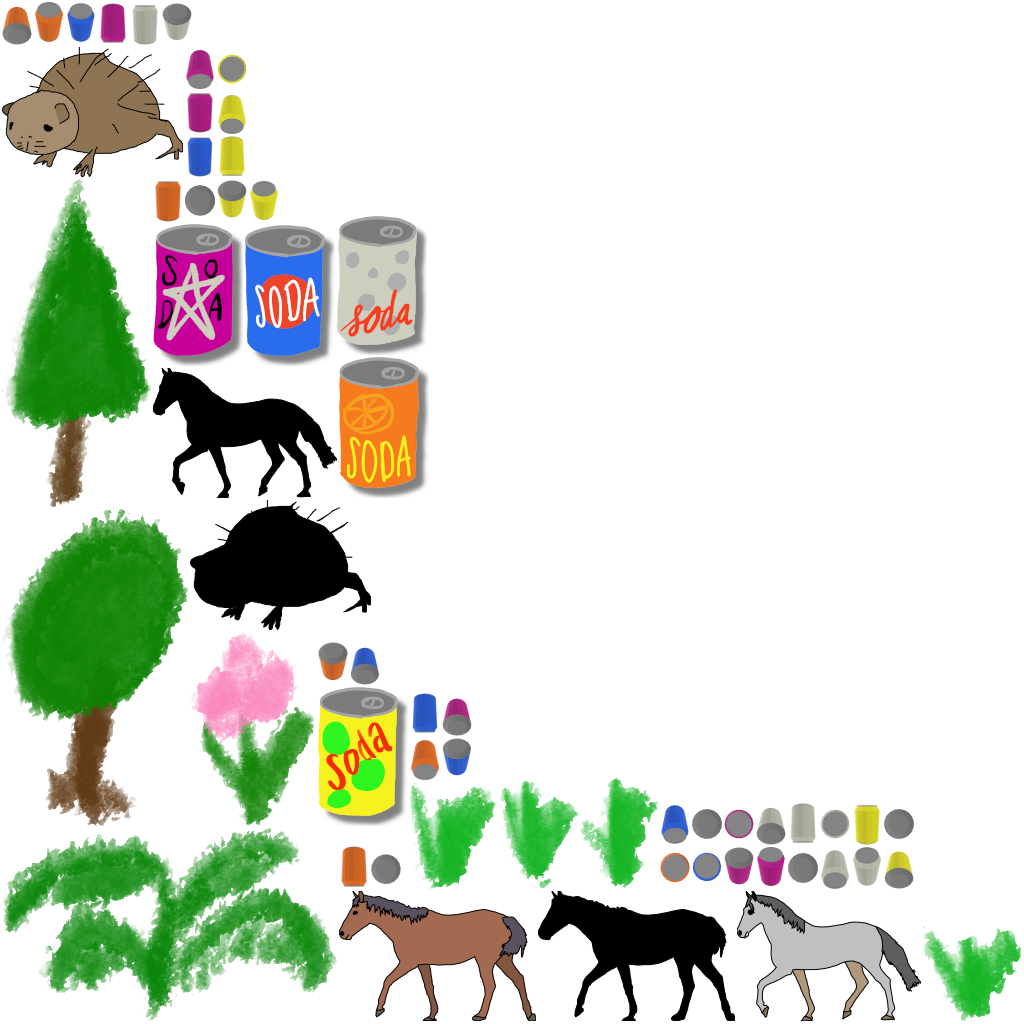
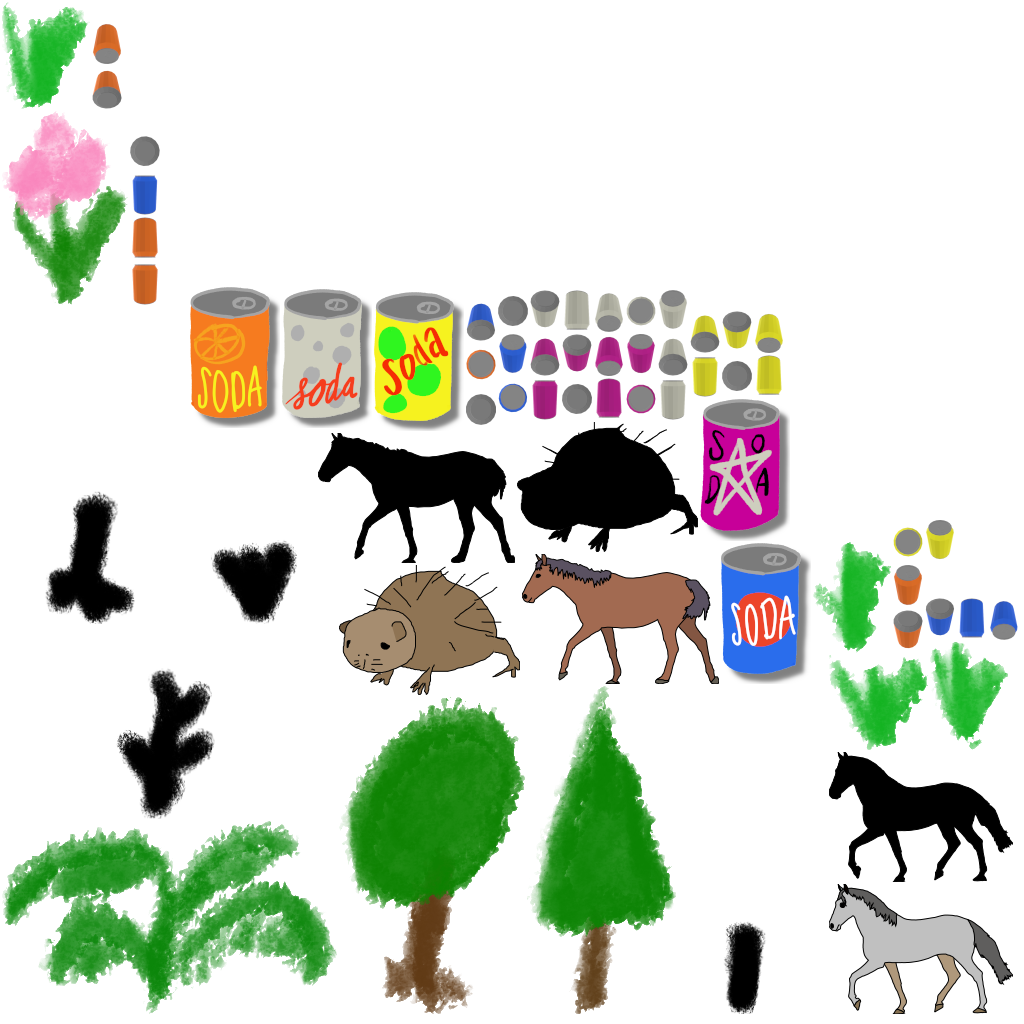
Plants not have hit-state Sprites that look charred

diff --git a/core/src/nz/co/canadia/coolsodacan/Plant.java b/core/src/nz/co/canadia/coolsodacan/Plant.java
@@ -7,13 +7,14 @@ import com.badlogic.gdx.graphics.g2d.SpriteBatch;
 import com.badlogic.gdx.graphics.g2d.TextureAtlas;
 import com.badlogic.gdx.math.MathUtils;
 import com.badlogic.gdx.math.Rectangle;
-import com.badlogic.gdx.utils.Array;
 
 import java.util.Comparator;
 
 @SuppressWarnings("NullableProblems")
 public class Plant implements GameObject, Hittable, Comparable<GameObject>, Comparator<GameObject> {
-    private Sprite sprite;
+    private Sprite normalSprite;
+    private Sprite hitSprite;
+    private Sprite currentSprite;
     private final ParticleEffect explosion;
     private Constants.HittableState hitState;
     private int hitCount;
@@ -27,56 +28,63 @@ public class Plant implements GameObject, Hittable, Comparable<GameObject>, Comp
                         MathUtils.random(Constants.PlantName.values().length - 1)];
         switch(plantName) {
             case FERN01:
-                sprite = atlas.createSprite(Constants.FERN01_TEXTURE);
+                normalSprite = atlas.createSprite(Constants.FERN01_TEXTURE);
+                hitSprite = atlas.createSprite(Constants.FERN01_HIT_TEXTURE);
                 break;
             case FLOWER01:
-                sprite = atlas.createSprite(Constants.FLOWER01_TEXTURE);
+                normalSprite = atlas.createSprite(Constants.FLOWER01_TEXTURE);
+                hitSprite = atlas.createSprite(Constants.FLOWER01_HIT_TEXTURE);
                 break;
             case TREE01:
-                sprite = atlas.createSprite(Constants.TREE01_TEXTURE);
+                normalSprite = atlas.createSprite(Constants.TREE01_TEXTURE);
+                hitSprite = atlas.createSprite(Constants.TREE01_HIT_TEXTURE);
                 break;
             case TREE02:
-                sprite = atlas.createSprite(Constants.TREE02_TEXTURE);
+                normalSprite = atlas.createSprite(Constants.TREE02_TEXTURE);
+                hitSprite = atlas.createSprite(Constants.TREE02_HIT_TEXTURE);
                 break;
         }
 
-        sprite.flip(MathUtils.randomBoolean(), false);
-        sprite.setCenterX(MathUtils.random(0, Constants.GAME_WIDTH));
-        sprite.setY(y);
+        boolean flipSprite = MathUtils.randomBoolean();
+        normalSprite.flip(flipSprite, false);
+        hitSprite.flip(flipSprite, false);
+
+        currentSprite = normalSprite;
+        currentSprite.setCenterX(MathUtils.random(0, Constants.GAME_WIDTH));
+        currentSprite.setY(y);
 
         explosion = new ParticleEffect();
         explosion.load(Gdx.files.internal("particleEffects/explosion.p"), atlas);
         // Set explosion dimensions to sprite size
-        explosion.getEmitters().first().getSpawnWidth().setHigh(sprite.getWidth());
-        explosion.getEmitters().first().getSpawnHeight().setHigh(sprite.getHeight());
+        explosion.getEmitters().first().getSpawnWidth().setHigh(currentSprite.getWidth());
+        explosion.getEmitters().first().getSpawnHeight().setHigh(currentSprite.getHeight());
         // Increase scale of particle to match sprite (THIS IS SO BAD)
         explosion.getEmitters().first().getXScale().setHigh(
-                Math.min(sprite.getWidth(), sprite.getHeight()) * Constants.PLANT_PARTICLE_SCALE);
+                Math.min(currentSprite.getWidth(), currentSprite.getHeight()) * Constants.PLANT_PARTICLE_SCALE);
     }
 
     @Override
     public void update(float delta) {
-        sprite.setY(sprite.getY() - Constants.WORLD_MOVEMENT_SPEED * delta);
-        explosion.setPosition(sprite.getX() + sprite.getWidth() / 2, sprite.getY() + sprite.getHeight() / 2);
+        currentSprite.setY(currentSprite.getY() - Constants.WORLD_MOVEMENT_SPEED * delta);
+        explosion.setPosition(currentSprite.getX() + currentSprite.getWidth() / 2, currentSprite.getY() + currentSprite.getHeight() / 2);
         explosion.update(delta);
     }
 
     public void draw(SpriteBatch batch) {
-        if (hitState == Constants.HittableState.NORMAL) {
-            sprite.draw(batch);
-        } else {
+        currentSprite.draw(batch);
+        if (hitState == Constants.HittableState.HIT) {
             explosion.draw(batch);
         }
     }
 
     @Override
     public float getY() {
-        return sprite.getY();
+        return currentSprite.getY();
     }
 
     @Override
     public float getTopY() {
-         return getY() + sprite.getHeight();
+         return getY() + currentSprite.getHeight();
     }
 
     @Override
@@ -99,16 +107,18 @@ public class Plant implements GameObject, Hittable, Comparable<GameObject>, Comp
     @Override
     public Rectangle getHitBox() {
         return new Rectangle(
-                sprite.getX(),
-                sprite.getY() + sprite.getHeight() / 2,
-                sprite.getWidth(),
-                sprite.getHeight() / 2);
+                currentSprite.getX(),
+                currentSprite.getY() + currentSprite.getHeight() / 2,
+                currentSprite.getWidth(),
+                currentSprite.getHeight() / 2);
     }
 
     @Override
     public void hit() {
         hitCount += 1;
         if (hitCount >= 3) {
+            hitSprite.setPosition(currentSprite.getX(), currentSprite.getY());
+            currentSprite = hitSprite;
             hitState = Constants.HittableState.HIT;
             explosion.start();
         }

diff --git a/core/src/nz/co/canadia/coolsodacan/Constants.java b/core/src/nz/co/canadia/coolsodacan/Constants.java
@@ -70,6 +70,10 @@ public class Constants {
     public static final String FLOWER01_TEXTURE = "flower01";
     public static final String TREE01_TEXTURE = "tree01";
     public static final String TREE02_TEXTURE = "tree02";
+    public static final String FERN01_HIT_TEXTURE = "fern01_hit";
+    public static final String FLOWER01_HIT_TEXTURE = "flower01_hit";
+    public static final String TREE01_HIT_TEXTURE = "tree01_hit";
+    public static final String TREE02_HIT_TEXTURE = "tree02_hit";
 
     // Spawn constants
     public static final int MIN_GRASS_START = 5;

diff --git a/todo.md b/todo.md
@@ -1,8 +1,5 @@
 # todo.md
       
-  + Create destroyed tree sprite
-      - After you hit a tree with 3 cans
-      
   + Implement scoring UI
       - Cans thrown
       - Cans delivered
@@ -37,6 +34,8 @@
   + Re-evaluate how much Y-offset there is from touch point on mobile
       - Currently it feels like it might be too much
       - Now setting Player x/y to centre of sprite. Has this made a difference?
+
+  + Do Animals need a smiling had-a-can state before exploding?
   
   + Consider a more composed method for distributing plants/animals
       - On a grid?
@@ -60,6 +59,9 @@
         implement a loading screens, menu screens, etc
 
 ## Done
+      
+  + ~~Create destroyed tree sprite~~
+      - ~~After you hit a tree with 3 cans~~
           
   + ~~Create Hittable interface~~
       - ~~Implemented by Animal and Plant classes~~
